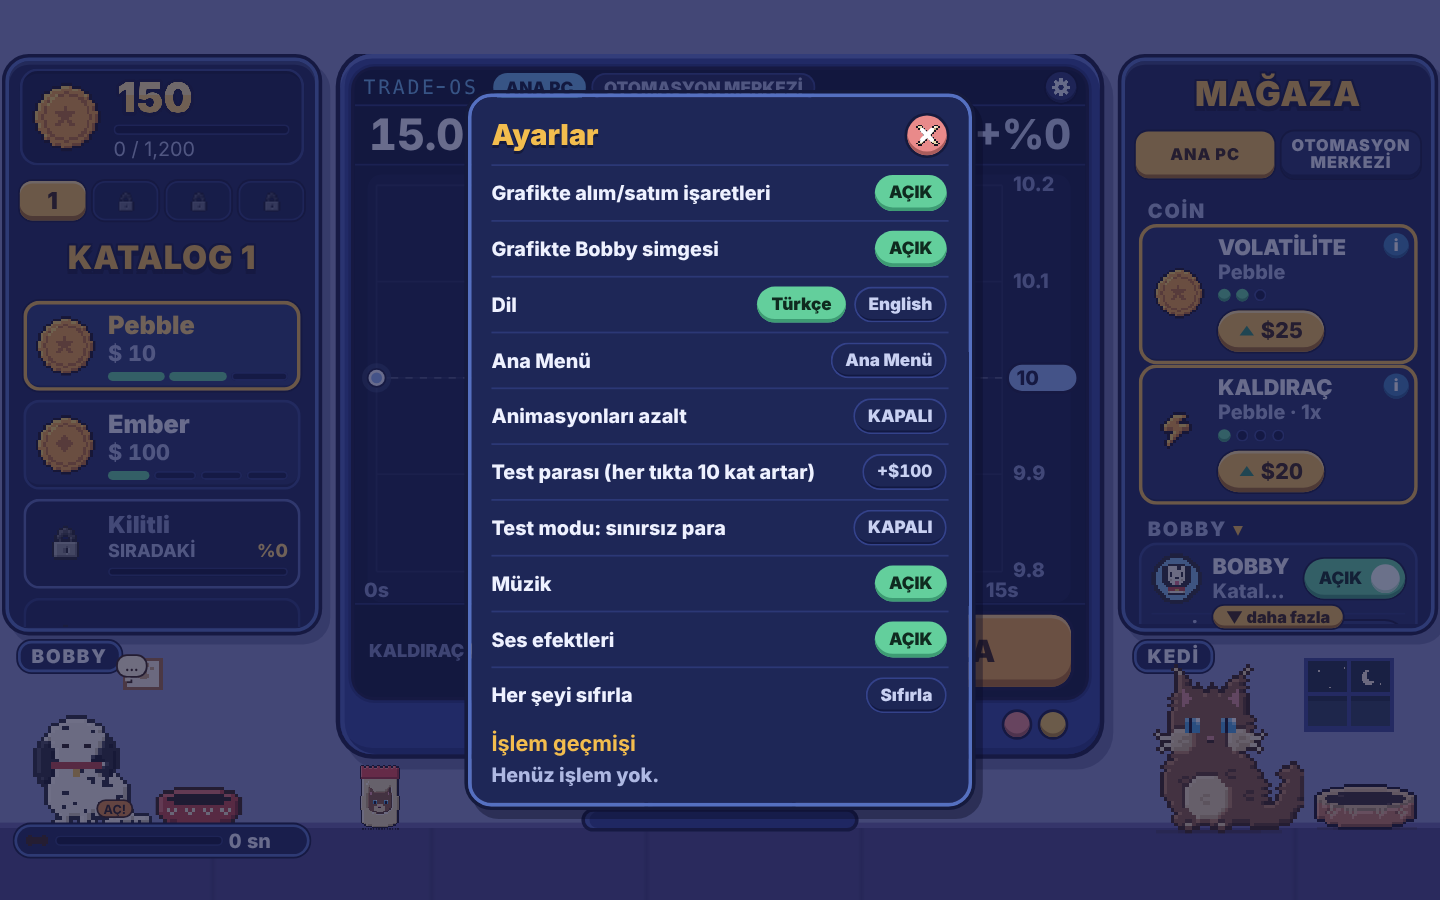
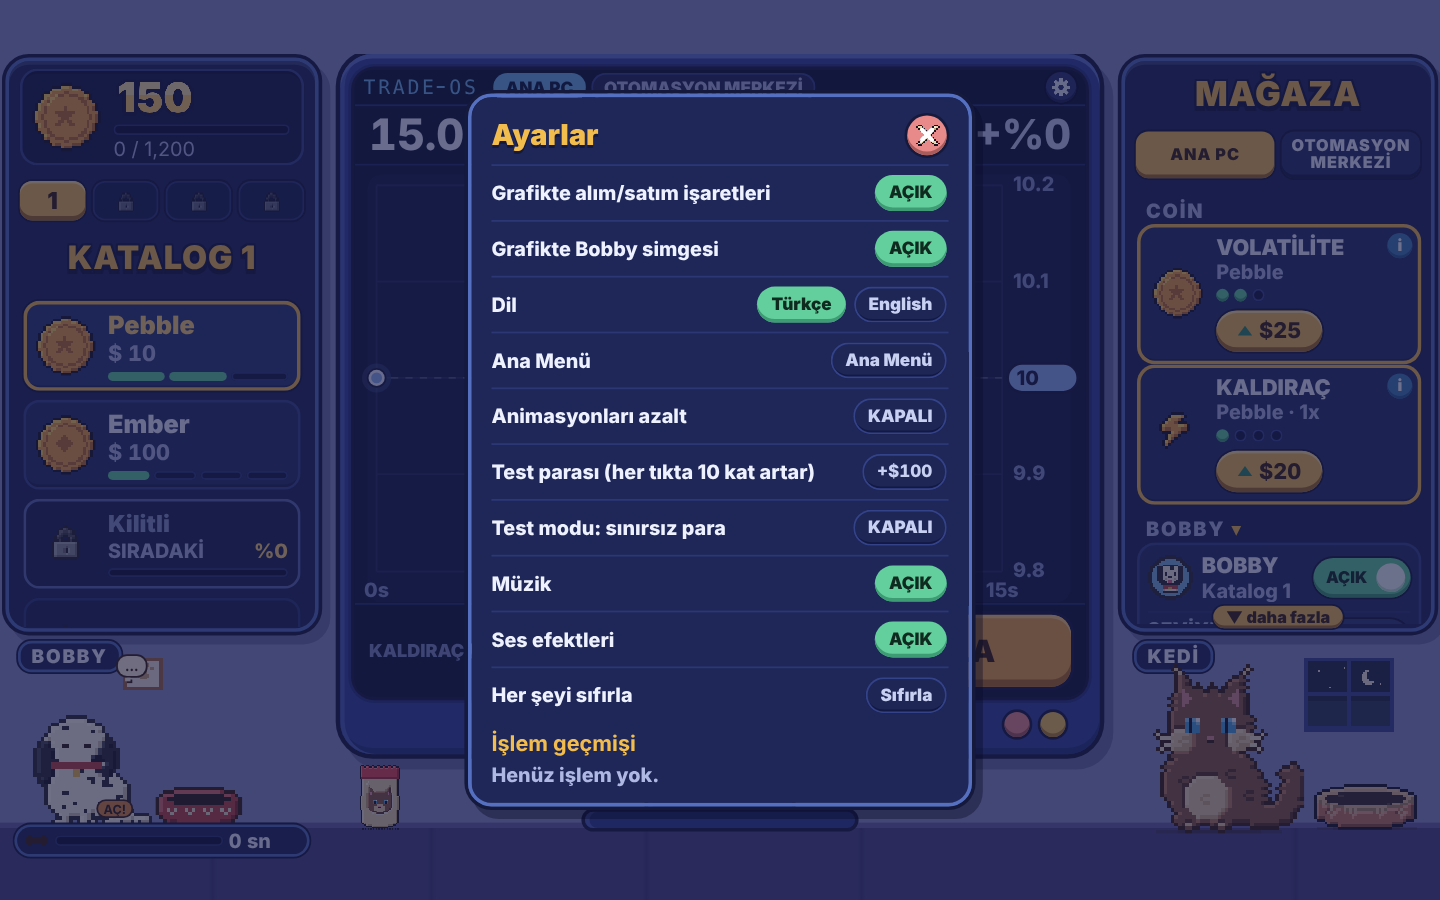
Tasarım Tur1: Konsept 1 (Gece Arcade) — smoke 63/63
Claude-Session: https://claude.ai/code/session_01VDVDeJVYoXzWZHeVKGLAfX

diff --git a/tasarim/konsept-1/NOTLAR.md b/tasarim/konsept-1/NOTLAR.md
@@ -1,0 +1,48 @@
+# Konsept 1 — "Gece Arcade"
+
+## Tasarım fikri (5 satır)
+1. Örnek görseldeki dile sadık: periwinkle duvar, indigo zemin, koyu lacivert yuvarlak paneller, açık mavi kalın kenar + koyu dış hat.
+2. Derinlik yalnız düz renk + alt kenar gölgesi + sağ-alta düz gölgeyle verilir (ışık sol üst); bulanık glow, neon, yanıp sönme yok.
+3. Tek yuvarlak kalın yazı ailesi; başlıklar altın, koyu konturlu (KATALOG 1, MAĞAZA, TRADING IDLE).
+4. Etkileşim dili: altın hap fiyat butonu, nane yeşili anahtar, nokta seviye göstergesi (●●○), ince yuvarlak ilerleme çubukları, tok BAŞLA butonu.
+5. Renk anlamı tek: kâr/zarar rengi ALIM fiyatına göre; pozisyon yokken grafik nötr mavi. Zarar cezalandırmayan nötr ton.
+
+## Palet
+| Rol | Renk |
+|---|---|
+| Duvar / zemin / zemin kenarı | `#8C92C6` / `#4A4683` / `#6762A6` |
+| Panel / kart / kart kenarı | `#1E2757` / `#253166` / `#36448A` |
+| Panel kenarı (açık mavi) / dış hat | `#5570C0` / `#151A3D` |
+| Altın (başlık, fiyat hapı) / koyu kenar | `#F3BD4E` / `#A66C1F` |
+| BAŞLA turuncu | `#F2A841` (alt kenar `#B9701F`) |
+| Kâr (nane) / zarar (yumuşak mercan) / nötr çizgi | `#63CF9C` / `#EE907F` / `#8FB0F5` |
+| AL butonu (gök mavisi) | `#6CB4EC` |
+| Boss (gül) | zemin `#36224D`, kenar `#C7708A` |
+| Metin / ikincil | `#EEF1FF` / `#AEB8E2` |
+
+## Font
+Sistem yığını (dış font yok): `ui-rounded, "SF Pro Rounded", Nunito, "Varela Round", "Arial Rounded MT Bold", "Trebuchet MS", Inter, system-ui, sans-serif`, ağırlık 800–900, sayılarda `tabular-nums`. Monitörde yalnız "TRADE-OS" etiketleri gömülü pixel fontta (arcade dokunuşu). Google Fonts bağlantısı kaldırıldı.
+
+## Neler değişti
+- **Çerçeve (öncelik 1):** `<style id="k1">` katmanı (head sonu) tüm arayüz CSS'ini yeniden tanımlar: oda/zemin, sol-sağ büyük paneller, para plakası (canvas'ta yuvarlak altın yazı: `cashTxt`), katalog sekmeleri (hap), başlık tabelaları, coin kartları (seçili = altın kenar, boss = gül, yanıp sönmez), mağaza kartları (ızgara düzen: ikon | başlık/durum/noktalar | hap buton), altın hap `go`/`goU`, anahtar `tg`, `seg` → noktalar (10'dan çok parçada ince çubuk), Bobby kartı (etiket + çubuk + buton ızgarası), robot kartları, sekmeler, kaydırma ipucu, hayvan alanı etiketleri, enerji çubuğu.
+- **Monitör:** yuvarlak kalın çerçeve, yuvarlak ekran, yuvarlak ikon butonlar, altın "TRADE-OS 3000" hapı, nane LED'ler, dekoratif sarı/kırmızı yuvarlak düğmeler, yuvarlak ayak; tarama çizgisi ve vinyet kaldırıldı.
+- **Grafik (öncelik 2):** `drawChart`/`hud` yeniden yazıldı: yuvarlak çizim alanı, koyu konturlu kalın çizgi, glow yok; çizgi rengi alım fiyatına göre (pozisyon yokken nötr), alım fiyatı kesikli çizgisi, yuvarlak hap fiyat etiketi, ▲/▼'lü al-sat rozetleri, yavaş "nefes alan" nokta (animasyon azaltılınca sabit). Başlıktaki büyük yüzde = SAT butonundaki yüzde (pozisyon kâr/zararı, ▲/▼); tur değişimi küçük nötr ikincil satır (`#hP2`). Süre son 3 sn'de kırmızıya dönmez. SAT butonu kârda nane, zararda nötr açık gri (`sell pos/neg`).
+- **Robot bölmeleri:** `drawTile` renk/fontları yeni dile; bölmeler yuvarlak, glow yok.
+- **Menü/modal/bildirim (öncelik 3):** ana menü aynı odada (duvar + zemin + pixel Bobby ve kedi), logo canvas'ta yuvarlak altın yazı (gradyan/glow yok), lacivert panel, turuncu "Oyna" + mavi hap butonlar. Ayarlar penceresi, ipucu, toast, banner, milestone, konuşma balonu, açılış (#pop) yeni dilde. Kâr/zarar uçan etiketi: kârda nane hap ≤420 ms zıplama, zararda nötr küçük hap.
+- **Kilitli coin:** sıradaki kilitli kartta "SIRADAKİ %x" + ilerleme çubuğu (yalnız yüzde; ad sızmaz). Yeni metin `SIRADAKİ` → EN `NEXT` (`I18N.en`).
+- **Boss:** kırmızı yanıp sönen kenar ve siren kaldırıldı; sabit gül kenar, sakin haber bandı (yanıp sönen "SON DAKİKA" yok).
+- **Öncelik 4 (az):** duvar penceresi çerçevesi indigo. Hayvan ve coin sprite'ları değişmedi.
+- id ve data-* öznitelikleri, oyun mantığı, sayılar, kayıt formatı dokunulmadı.
+
+## Bilinen eksikler
+- Telefon (scale ≈ 0.42) ölçeğinde bazı ikincil etiketler (kartlardaki durum satırı, "SIRADAKİ", eksen yazıları) ≈ 9–9.5 px; birincil yazılar ≥ 10 px. Dokunma hedefleri ≈ 18–20 px görünür + görünmez dikey genişletme; 32 px hedefine tam ulaşmıyor.
+- Bobby kartında EN "Catalog 1" dar ekranda kısalabiliyor (…).
+- "▼ daha fazla" kaydırma ipucu, altındaki kartın bir kısmını örtüyor.
+- Monitör altındaki sarı/kırmızı yuvarlaklar yalnız süs (işlevsiz).
+- Coin ikonları, kilit ikonu, kaplar, kulübe pixel art olarak kaldı; final sahnesi yalnız yazı/buton stiliyle uyarlandı.
+- `.go`/`.sw` dokunma alanı genişletmesi yalnız dikey (yatay genişletme taşma testini bozuyordu).
+- Gerçek cihazda `ui-rounded` (iOS) / Roboto (Android) ile genişlik farkı test edilmedi; testler Chromium + Inter ile.
+
+## Doğrulama
+- `smoke.js` → 63/63 (konsol temiz, eski kayıt, TR/EN, 4 ekran boyutunda taşma yok).
+- `goruntu.js` → 8 görüntü `goruntu/` altında, konsol temiz.

diff --git a/tasarim/konsept-2/NOTLAR.md b/tasarim/konsept-2/NOTLAR.md
@@ -36,6 +36,7 @@ Not: test ortamında (Linux) yuvarlak font yok, görüntülerde Inter görünüy
 - Kilitli kartlar: soluk kesik kenar; **sıradaki coin** nane kenarlı ve hedefe ilerleme çubuğu + yüzde gösterir (kilitli içerik adı sızdırılmaz).
 - Mağaza kartları: yuvarlak ikon tabağı, kalın başlık, nokta seviyeler, hap fiyat butonu (▲ + $), kilit açma = nane hap, parası yetmeyen = soluk krem hap (kırmızı yok), MAKS = nane rozet, "i" = gök mavisi yuvarlak rozet.
 - Toggle: gerçek hap anahtar (beyaz yuvarlak topuz, açıkken nane).
+- Mağaza kart başlığı/alt yazısı gerekirse iki satıra kayar (dar telefon ve EN'de taşma yok).
 - Bobby kartı satırları: etiket + noktalar solda üst üste, fiyat hapı sağda (10 nokta artık taşmıyor).
 - Monitör: yuvarlak kalın gök mavisi kasa, yuvarlak ekran, çene hapı "TRADE-OS 3000", yuvarlak ışıklar, yuvarlak ayak; ekranda tarama çizgisi/vinyet kaldırıldı.
 - Ekran içi: hap sekmeler, yuvarlak ayar düğmesi, hap kaldıraç seçimi, tok BAŞLA (iç açık kenar + 8 px alt gölge, basınca iner); AL = nane, SAT = **kârdaysa nane-yeşil, zarardaysa mercan** (alım fiyatına göre).
@@ -64,3 +65,8 @@ Not: test ortamında (Linux) yuvarlak font yok, görüntülerde Inter görünüy
 - Telefon 667x375 (16:9) oranında sahne genişlemez; oradaki küçük etiketler (~7–8 px) hâlâ küçük.
 - 667x375/844x390'da sol listede 3. kart yarım görünür (liste kaydırılır).
 - Eski CSS katmanları silinmedi, üstüne yazıldı (çok sayıda `!important`); seçilirse sadeleştirme turu gerekir.
+- Ekran üst çubuğunun hemen altında (sekmelerin altı) zaman zaman 1 px'lik soluk kesikli bir iz görünüyor; kaynağı bulunamadı (zararsız, görsel).
+
+## Doğrulama
+- `smoke.js` (TI_URL=konsept-2, TI_SHOTS=tasarim/konsept-2/shots): **63/63 geçti**, konsol temiz.
+- `goruntu.js` → `tasarim/konsept-2/goruntu/` (8 standart görüntü), konsol temiz.

diff --git a/tasarim/konsept-4/NOTLAR.md b/tasarim/konsept-4/NOTLAR.md
@@ -36,3 +36,8 @@ Sistem yuvarlak yığını (brif): `ui-rounded, "SF Pro Rounded", "Nunito", "Var
 - Sprite/ikonlar (coin, kilit, kemik, robot, kedi/köpek, kaplar, mama) eski pixel art; renkleri yeni palete uyarlanmadı (öncelik 4). Final sahnesi animasyonu dokunulmadı (yalnız yazı/buton stili).
 - Eski CSS katmanları silinmedi, yeni blok (`<style id="k4">`) en sonda onları eziyor; kalıcı geçişte eski görsel katmanlar temizlenmeli.
 - Robot bölmelerinde çok işlem olunca yüzde etiketleri üst üste binebiliyor (eskisinde de vardı).
+
+## Doğrulama
+- `smoke.js` (TI_URL=konsept-4, TI_SHOTS=tasarim/konsept-4/shots): **63/63 geçti**, konsol temiz, TR/EN ve 4 ekran boyutunda taşma yok.
+- `goruntu.js` → `tasarim/konsept-4/goruntu/` 8 standart görüntü, konsol temiz. Ek kontrol (boss + haber bandı, mağaza aşağı kaydırılmış, 2 robot çalışırken, ödül/toast, telefon menü/mağaza) gözle incelendi.
+- Telefon işlem anında başlıktaki yüzde ile SAT düğmesindeki yüzde aynı (`ui` sonrası `hud` aynı karede çağrılıyor).
